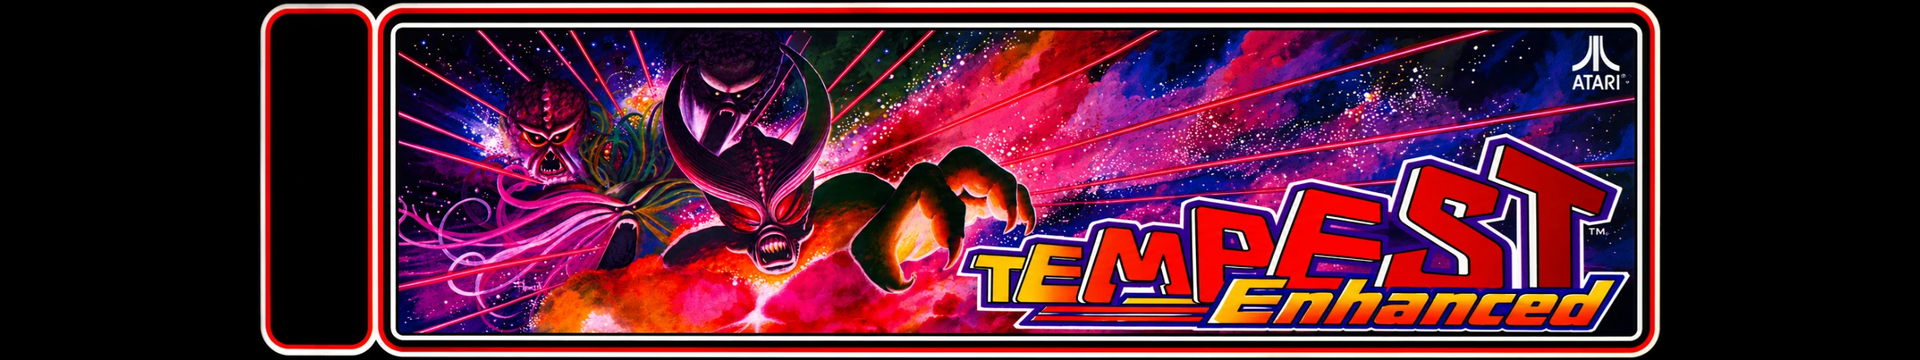
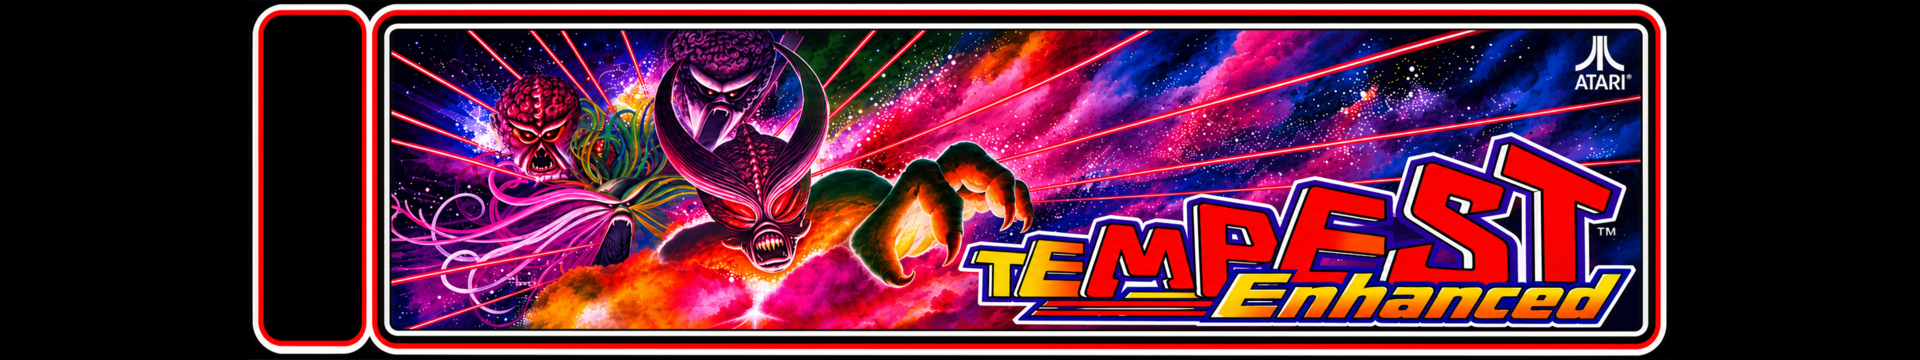
0.1.37: new marquee artwork in a higher resolution
The new marquee (2172x548) scaled to the marquee screen's height and
centred on black in 1920x360, as before. The program is unchanged.

diff --git a/STATUS.md b/STATUS.md
@@ -7,11 +7,14 @@
   controls, menu and tools are C. No C translation of Atari's routines.
 - Board checks (`tools/checkall.sh`): all six MAME recordings in
   `_scratch/cap` match frame for frame (tpcompare and tplockstep).
-- Version 0.1.36 is installed and running on the cabinet
-  (`pi@192.168.0.122:/persistent/games/tpenhanced`), Pi binary md5
-  `5a05142f9b771f76c056fe43c863aa58`, VectorPie SDK 0.9.0, 50 fps.
-- Package: `build/vpk/tpenhanced-0.1.36.vpk`, GitHub release `v0.1.36`
-  (2026-11-10; not in the Drive folder). Before: 0.1.35 (GitHub `v0.1.35`
+- Version 0.1.37 is installed on the cabinet
+  (`pi@192.168.0.122:/persistent/games/tpenhanced`; not started: its
+  screensaver had the board), Pi binary md5
+  `5a05142f9b771f76c056fe43c863aa58` (as 0.1.36), VectorPie SDK 0.9.0.
+- Package: `build/vpk/tpenhanced-0.1.37.vpk` (md5
+  `99a020d8f4f5770c6b4f82703d3e295f`), GitHub release `v0.1.37`
+  (2026-11-10; not in the Drive folder). Before: 0.1.36 (GitHub
+  `v0.1.36`), 0.1.35 (GitHub `v0.1.35`
   and the Drive folder `games`, 2026-10-27; 0.1.33 is no longer there), `tpenhanced-0.1.33.vpk` (vp-pack, without ROMs,
   md5 `70ac73e1888fc6acc93a60e286f7c3eb`): GitHub release `v0.1.33` of
   `Endprodukt/TempestEnhanced` (the repository is private: only its
@@ -19,6 +22,12 @@
   (https://drive.google.com/drive/folders/1N5vPb5K46OlYJ-xtTOY6IWD4E5GqMYiS),
   uploaded 2026-10-19. The release's tag points at the repository's
   `main` as pushed 2026-10-19 12:36 (this folder is not a git checkout).
+
+## 0.1.37: the marquee in a higher resolution
+
+- The owner's new marquee (2172x548, `_scratch/marquee-alt/source-7.png`)
+  scaled to 1427x360 and centred on black in 1920x360, as before. The
+  program is the same as 0.1.36.
 
 ## 0.1.36: VectorPie SDK 0.9.0, the sound through the SDK
 
